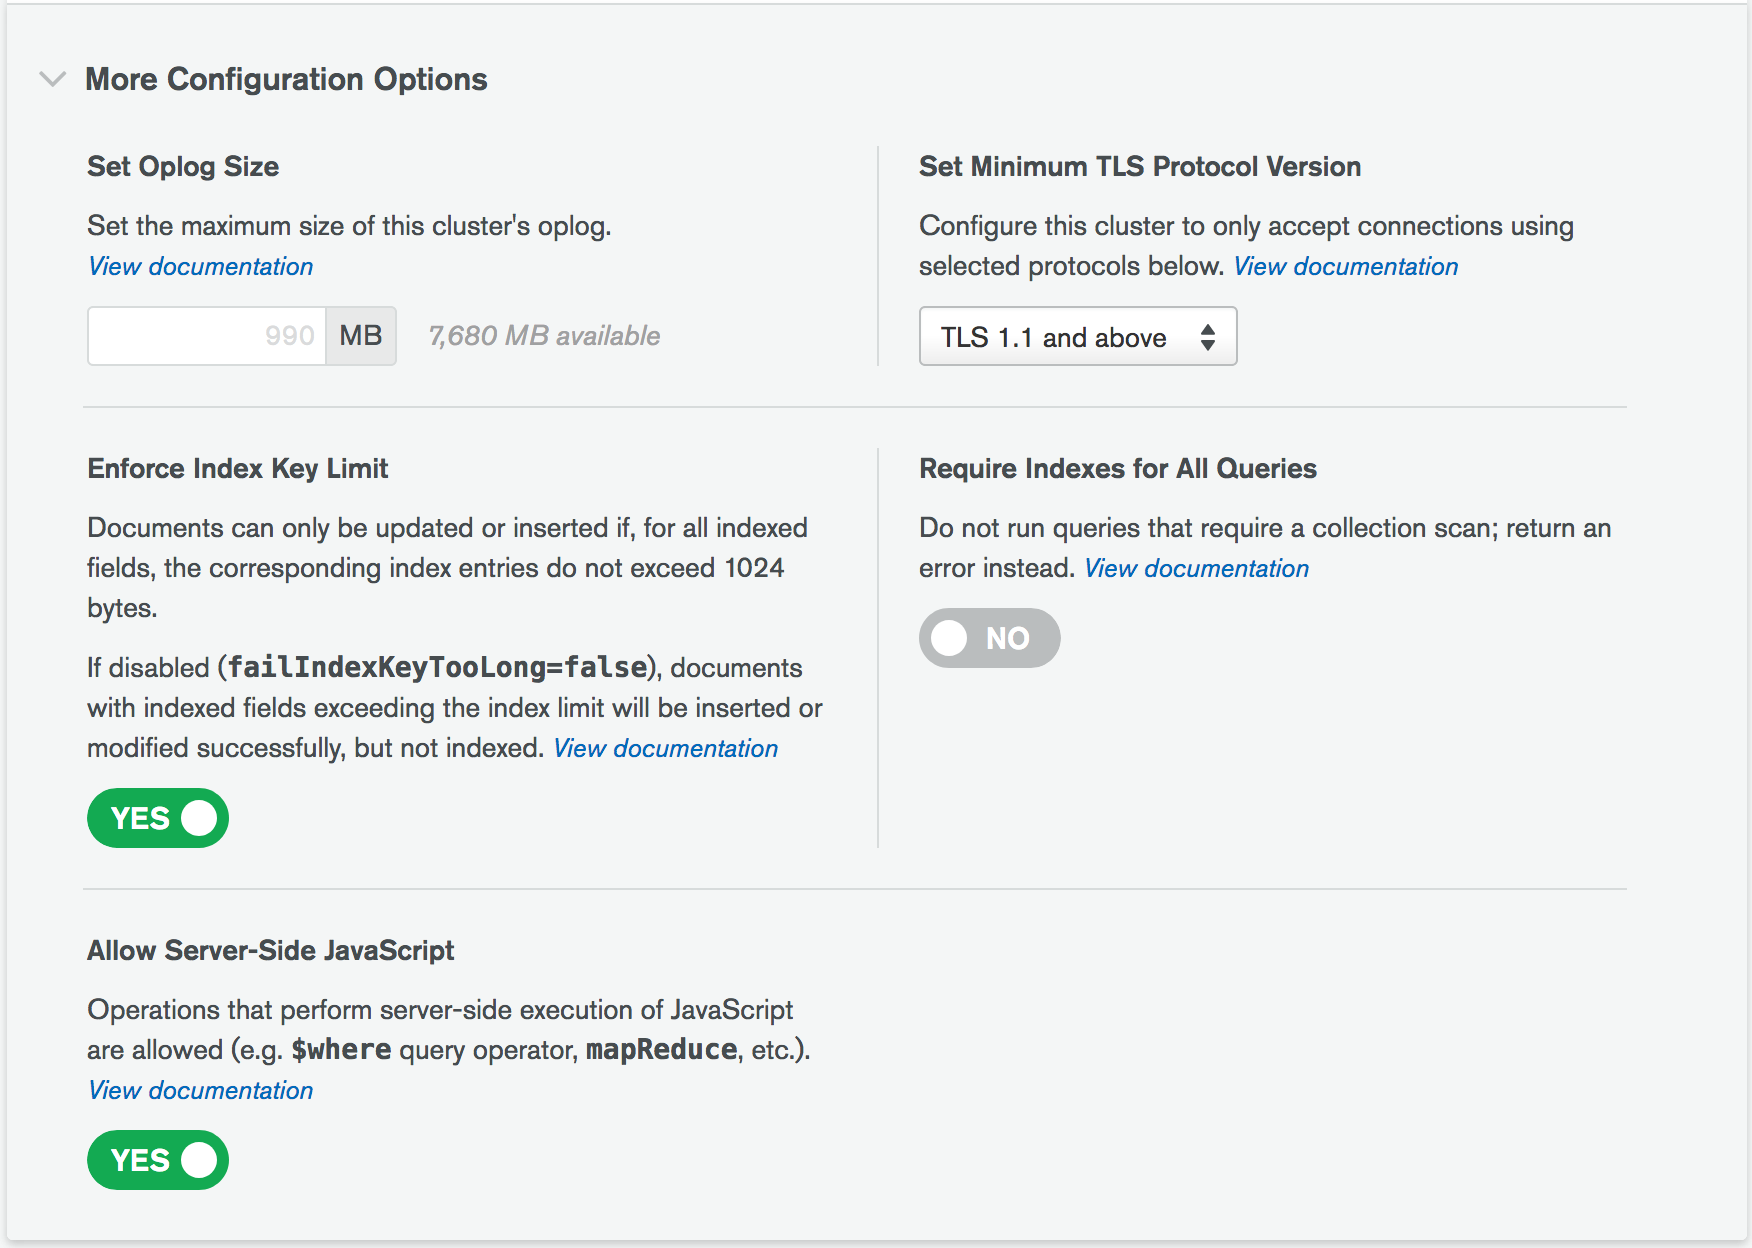
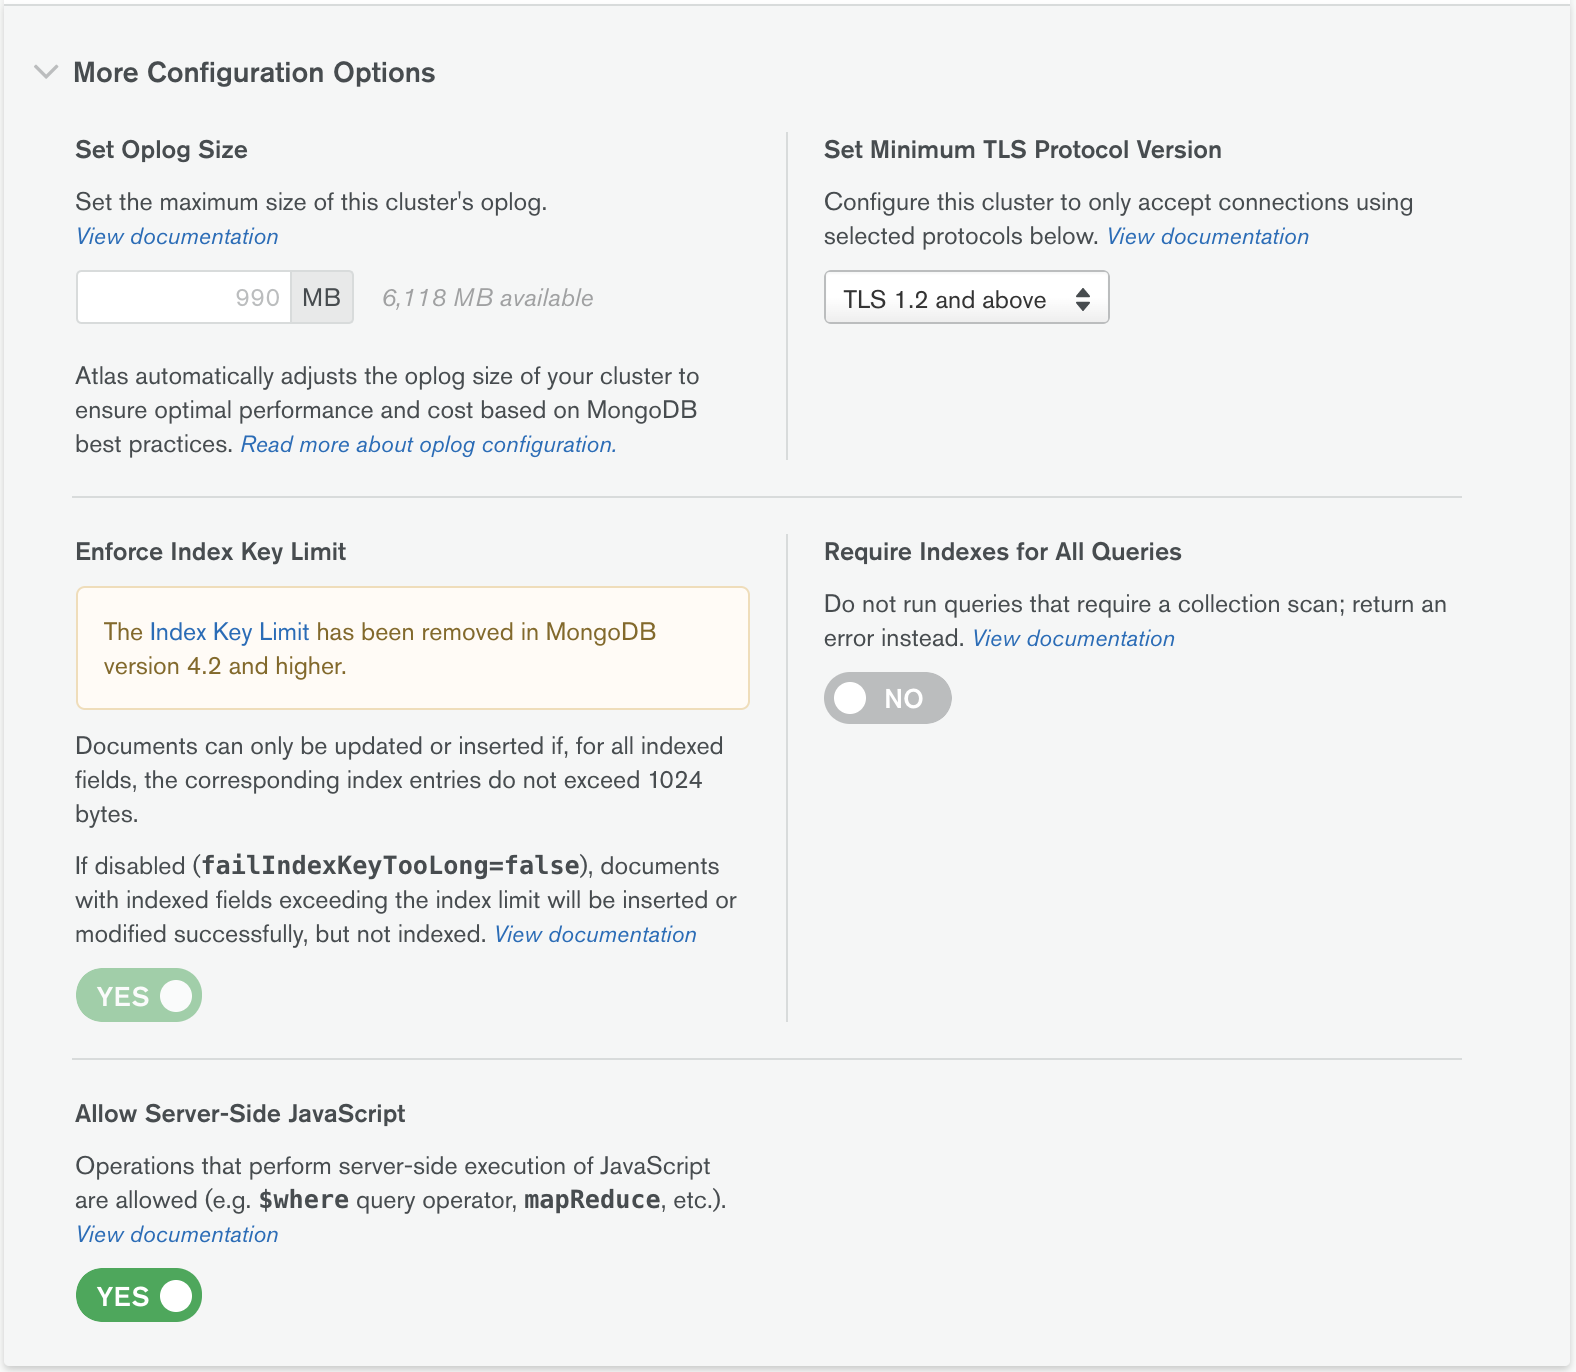
(DOCSP-10165) Atlas Support for MongoDB 4.4 Beta (#1663)
* (DOCSP-10165) Support for MongoDB 4.4 in Atlas

Changed region(s): [[0.0311, 0.0312, 0.4664, 0.9688], [0.4975, 0.0938, 0.9016, 0.2812], [0.4975, 0.3438, 0.9327, 0.5625]]

diff --git a/source/includes/api/list-tables/create-cluster-request-body.rst b/source/includes/api/list-tables/create-cluster-request-body.rst
@@ -72,7 +72,8 @@
 
        .. important::
 
-          Clusters running MongoDB 4.2 and any net new |service|
+          Clusters running MongoDB 4.2 or later and any net new 
+          |service|
           clusters of any type do not support this parameter.
           These clusters must use
           :doc:`/backup/cloud-backup/overview`:
@@ -402,10 +403,15 @@
        - ``3.6``
        - ``4.0``
        - ``4.2``
+       - ``4.4``
+
+       .. include:: /includes/admonitions/version-4.4-beta.rst
 
        You must set this value to ``4.2`` if
        ``providerSettings.instanceSizeName``
        is either ``M2`` or ``M5``.
+
+       .. include:: /includes/admonitions/version-4.4-beta-shared-tier-exception.rst
 
        |service| always deploys the cluster with the latest stable
        release of the specified version. You can upgrade to a newer

diff --git a/source/includes/fact-failIndexKeyTooLong-import.rst b/source/includes/fact-failIndexKeyTooLong-import.rst
@@ -1,8 +1,8 @@
 Index Key Limits
-~~~~~~~~~~~~~~~~   
+~~~~~~~~~~~~~~~~
 
 If your MongoDB deployment contains indexes with keys which exceed the
-:manual:`index key limit</reference/limits/#Index-Key-Limit>`, you must
+:manual:`Index Key Limit</reference/limits/#Index-Key-Limit>`, you must
 set the MongoDB server parameter :manual:`failIndexKeyTooLong
 </reference/parameters/index.html#param.failIndexKeyTooLong>`
 to ``false`` before starting the Live Migration procedure.
@@ -14,3 +14,5 @@ to ``false`` before starting the Live Migration procedure.
    parameter to ``false``. See the :manual:`server manual
    </reference/parameters/index.html#param.failIndexKeyTooLong>`
    for strategies on dealing with oversized index keys.
+
+.. include:: /includes/admonitions/removed-fail-index-key-too-long.rst

diff --git a/source/includes/api/list-tables/modify-cluster-request-body.rst b/source/includes/api/list-tables/modify-cluster-request-body.rst
@@ -292,10 +292,15 @@
        - ``3.6``
        - ``4.0``
        - ``4.2``
+       - ``4.4``
+
+       .. include:: /includes/admonitions/version-4.4-beta.rst
 
        You must set this value to ``4.2`` if
        ``providerSettings.instanceSizeName``
        is either ``M2`` or ``M5``.
+
+       .. include:: /includes/admonitions/version-4.4-beta-shared-tier-exception.rst
 
        |service| always deploys the cluster with the latest stable
        release of the specified version. You can upgrade to a newer

diff --git a/source/includes/list-table-cluster-http-response.rst b/source/includes/list-table-cluster-http-response.rst
@@ -40,7 +40,8 @@
      - boolean
      - .. important::
 
-          Clusters running MongoDB 4.2 and any net new |service|
+          Clusters running MongoDB version 4.2 or later and any net new 
+          |service|
           clusters of any type do not support this parameter.
           These clusters must use
           :doc:`/backup/cloud-backup/overview`:
@@ -288,6 +289,7 @@
        - 3.6
        - 4.0
        - 4.2
+       - 4.4
 
    * - ``mongoURI``
      - string

diff --git a/source/includes/fact-free-tier-paid-tier.rst b/source/includes/fact-free-tier-paid-tier.rst
@@ -4,5 +4,9 @@ Tier cluster, an ``M2`` or ``M5`` shared starter cluster, and an
 
 .. include:: /includes/list-table-free-paid-compare.rst
 
+.. include:: /includes/admonitions/version-4.4-beta.rst
+
+.. include:: /includes/admonitions/version-4.4-beta-shared-tier-exception.rst
+
 For a complete list of M0 (Free Tier), M2, and M5 limitations, 
 see :ref:`atlas-free-tier`.

diff --git a/source/includes/admonitions/version-4.4-beta-shared-tier-exception.rst b/source/includes/admonitions/version-4.4-beta-shared-tier-exception.rst
@@ -1,0 +1,6 @@
+.. admonition:: MongoDB 4.4 Beta on Shared Tier Clusters
+     :class: note
+
+     While MongoDB version 4.4 is in the Beta stage, |service| free and 
+     shared-tier clusters (``M0``, ``M2`` and ``M5``) may deploy 
+     MongoDB 4.4 in |aws| region ``us-east-1``.

diff --git a/source/includes/admonitions/removed-fail-index-key-too-long.rst b/source/includes/admonitions/removed-fail-index-key-too-long.rst
@@ -1,0 +1,6 @@
+.. admonition:: Index Key Limit
+   :class: important
+
+   :parameter:`failIndexKeyTooLong <param.failIndexKeyTooLong>` 
+   was deprecated in MongoDB version 4.2 and is removed in MongoDB 4.4 
+   and later.

diff --git a/source/includes/list-table-free-paid-compare.rst b/source/includes/list-table-free-paid-compare.rst
@@ -16,9 +16,9 @@
      - | 10 - 4000 GB
 
    * - MongoDB Version Support
-     - 4.0
-     - 4.0
-     - 3.6, 4.0, 4.2
+     - 4.2, 4.4
+     - 4.2, 4.4
+     - 3.6, 4.0, 4.2, 4.4
 
    * - Metrics and Alerts
 

diff --git a/source/includes/admonitions/version-4.4-beta.rst b/source/includes/admonitions/version-4.4-beta.rst
@@ -1,0 +1,5 @@
+.. admonition:: MongoDB 4.4 Beta
+   :class: important
+
+   MongoDB version 4.4 is available in the **Beta** stage. MongoDB 4.4 
+   features and capabilities may change during the Beta stage.

diff --git a/source/includes/admonitions/changed-javascript-enabled-mongos.rst b/source/includes/admonitions/changed-javascript-enabled-mongos.rst
@@ -1,0 +1,5 @@
+.. note::
+   
+   In MongoDB version 4.4 and later,
+   :setting:`security.javascriptEnabled` applies to 
+   :manual:`mongos </reference/program/mongos/>`' as well.

diff --git a/source/includes/list-tables/all-clusters-filter.rst b/source/includes/list-tables/all-clusters-filter.rst
@@ -34,6 +34,7 @@
        - 3.6
        - 4.0
        - 4.2
+       - 4.4
 
    * - :guilabel:`Configuration`
      - Additional configuration options for the cluster including
